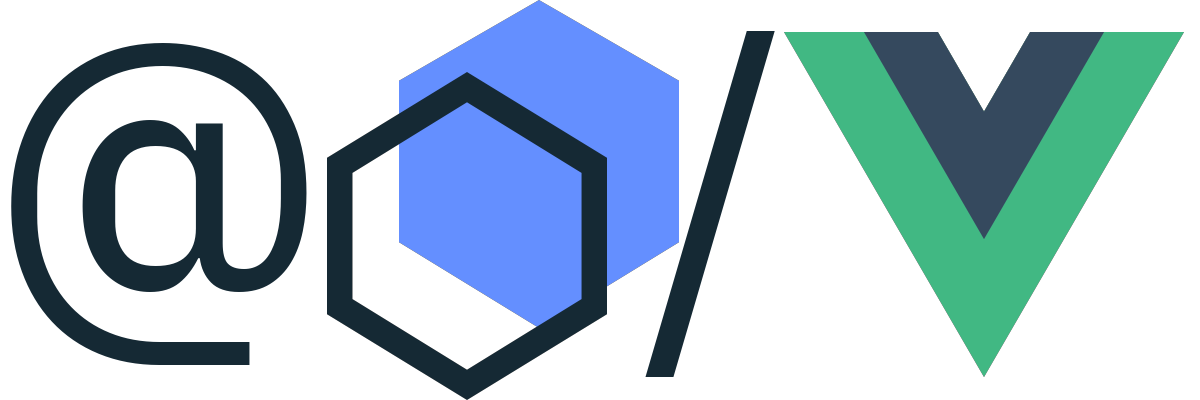
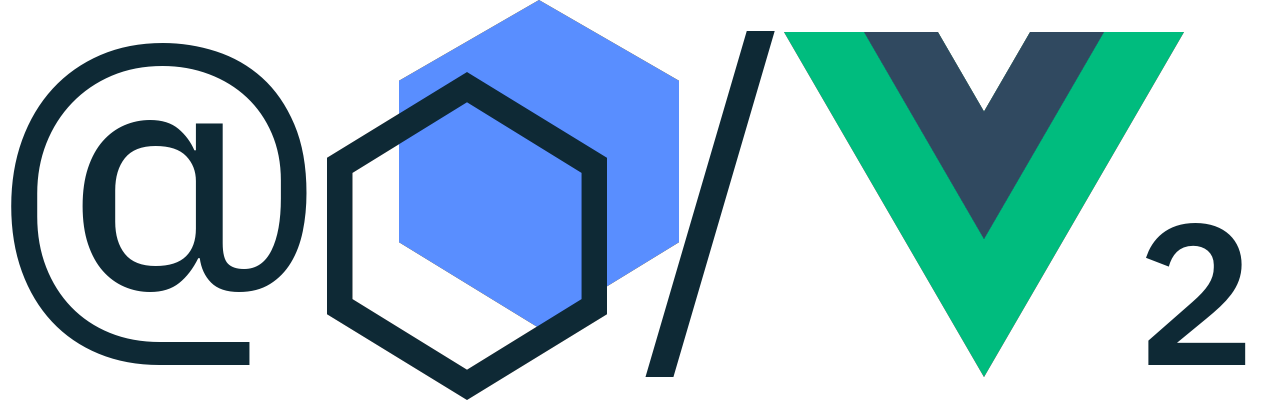
chore: update v2 links and image

diff --git a/storybook/_storybook/views/sv-template-view/sv-versions.vue b/storybook/_storybook/views/sv-template-view/sv-versions.vue
@@ -8,7 +8,9 @@
         <span class="highlight">VueJs</span>
       </h1>
       <p class="versions__text">V2: (this version) built using Carbon Components V10.</p>
-      <a class="versions__text" href="http://v1.vue.carbondesignsystem.com"
+      <a
+        class="versions__text"
+        href="https://carbon-design-system.github.io/carbon-components-vue/?path=/story/welcome--default"
         >V1: (previous version) built using Carbon Components 9.</a
       >
     </div>
